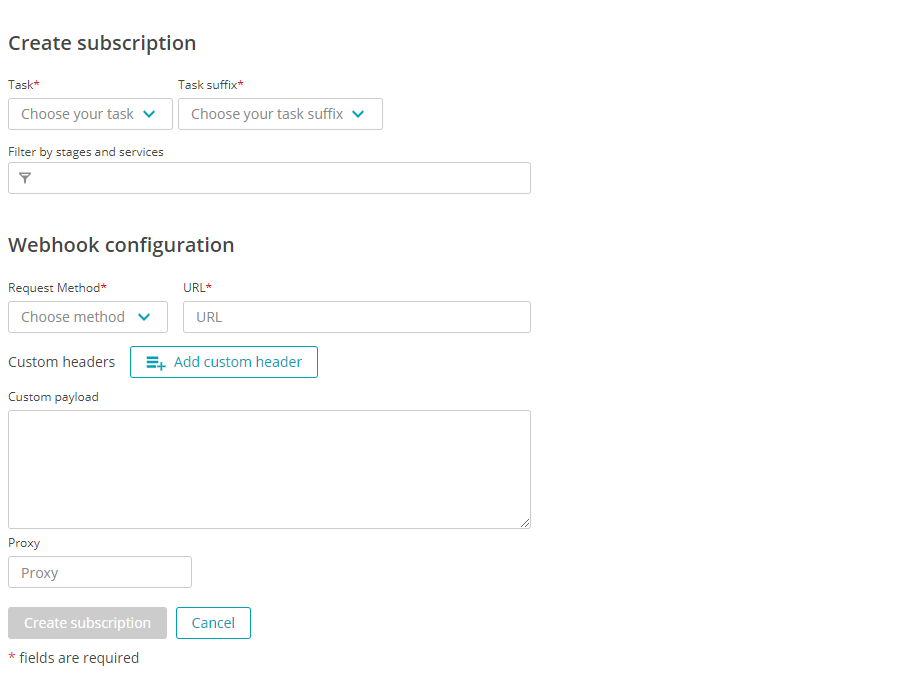
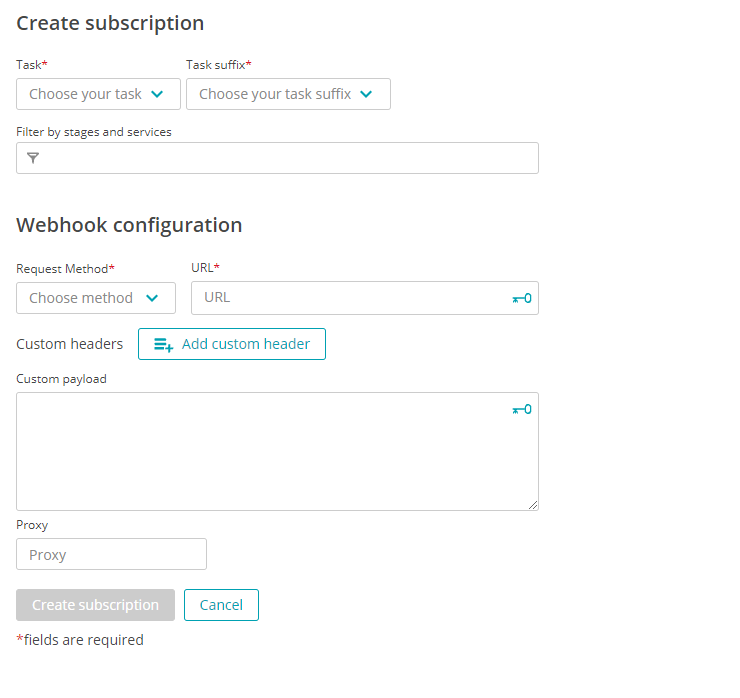
Add documentation for adding webhook secrets

diff --git a/content/docs/0.10.x/integrations/webhooks/index.md b/content/docs/0.10.x/integrations/webhooks/index.md
@@ -76,7 +76,7 @@ width="700px">}}
 
 When integrating tools by calling their endpoints, many times authentication is needed. This is done by storing an authentication token that is part of the webhook request. In Keptn, you do this as follows: 
 
-* Create a secret with a unique `name`, scope set to `webhook-service`, and a `key:value` pair whereas the key is a unique identifier of your secret and the value holds the sensitive data.
+* Create a secret with a unique `name`, scope set to `keptn-webhook-service`, and a `key:value` pair whereas the key is a unique identifier of your secret and the value holds the sensitive data.
   {{< popup_image
   link="./assets/create-secret.png"
   caption="Create a secret for webhook-service"
@@ -87,6 +87,18 @@ When integrating tools by calling their endpoints, many times authentication is 
   link="./assets/add-secret-value.png"
   caption="Usage of secrets to customize request"
   width="700px">}}
+
+  The key-value pair will be automatically inserted into the selected field in the format `{{.secret.name.key}}`. When the webhook configuration is saved, the secret will be parsed into a different format, which looks like this: `{{.env.secret_name_key}}`. This format represents a unique name that is a referrer to an entry in the `envFrom` property in the `webhook.yaml` file. This `envFrom` property contains added secrets with a referrer name, the given secret name and secret key.
+
+{{< popup_image
+link="./assets/webhook-secret.png"
+caption="envFrom property in webhook.yaml"
+width="700px">}}
+
+{{< popup_image
+link="./assets/webhook-secret-usage.png"
+caption="Usage of envFrom property in webhook.yaml"
+width="700px">}}
 
 ## Advanced Webhook configuration
 
